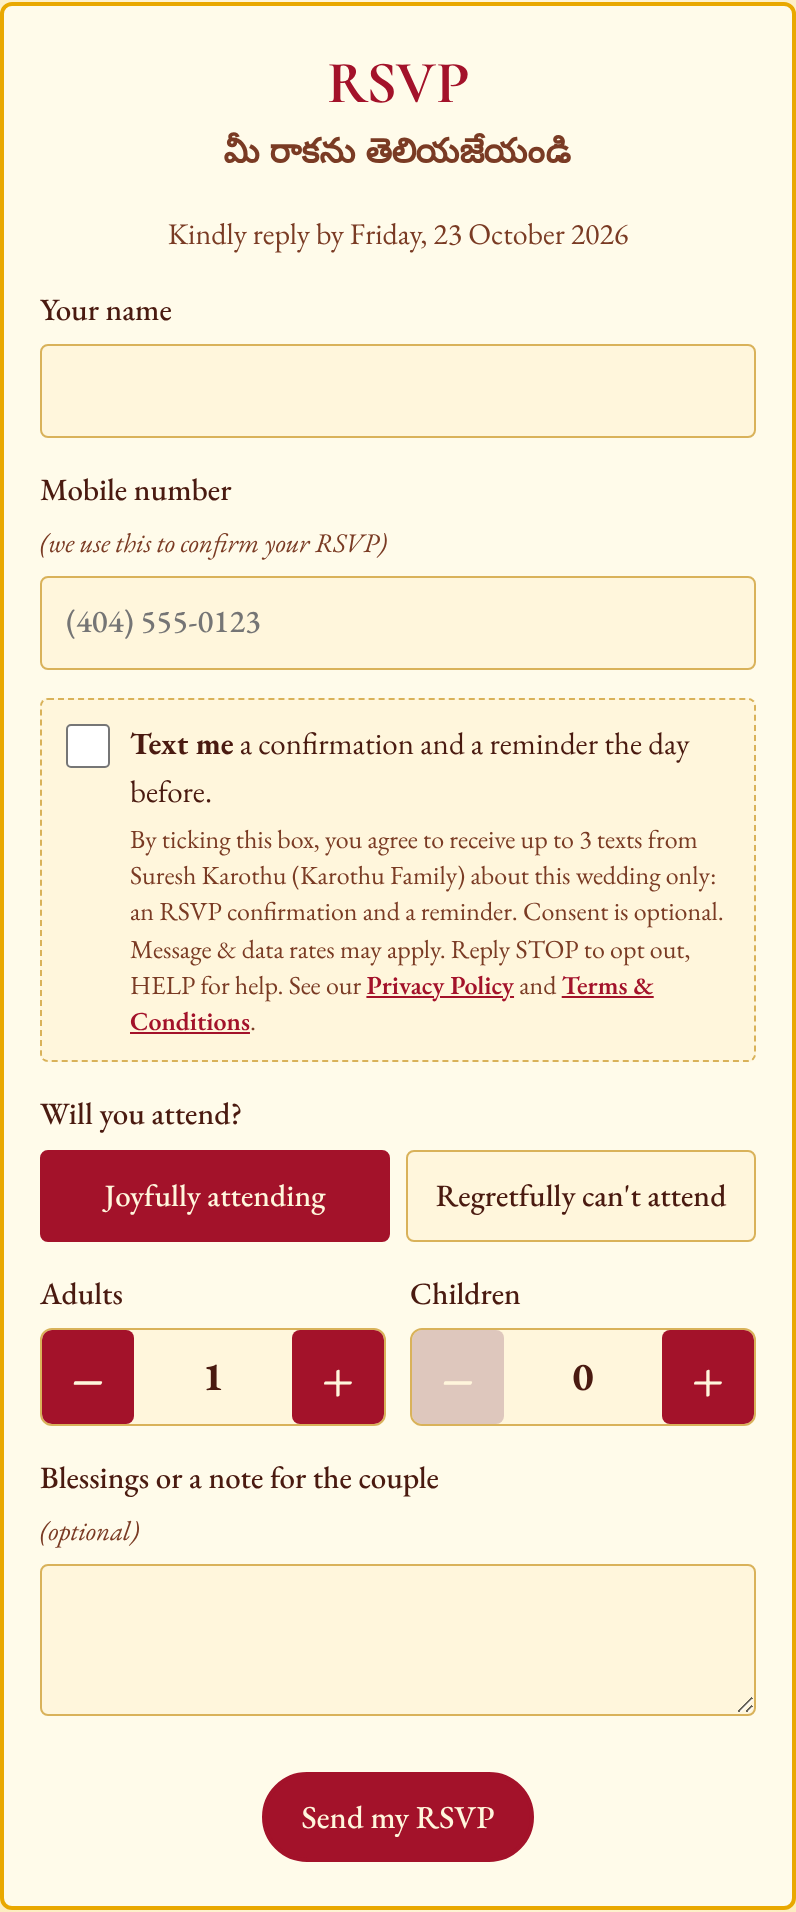
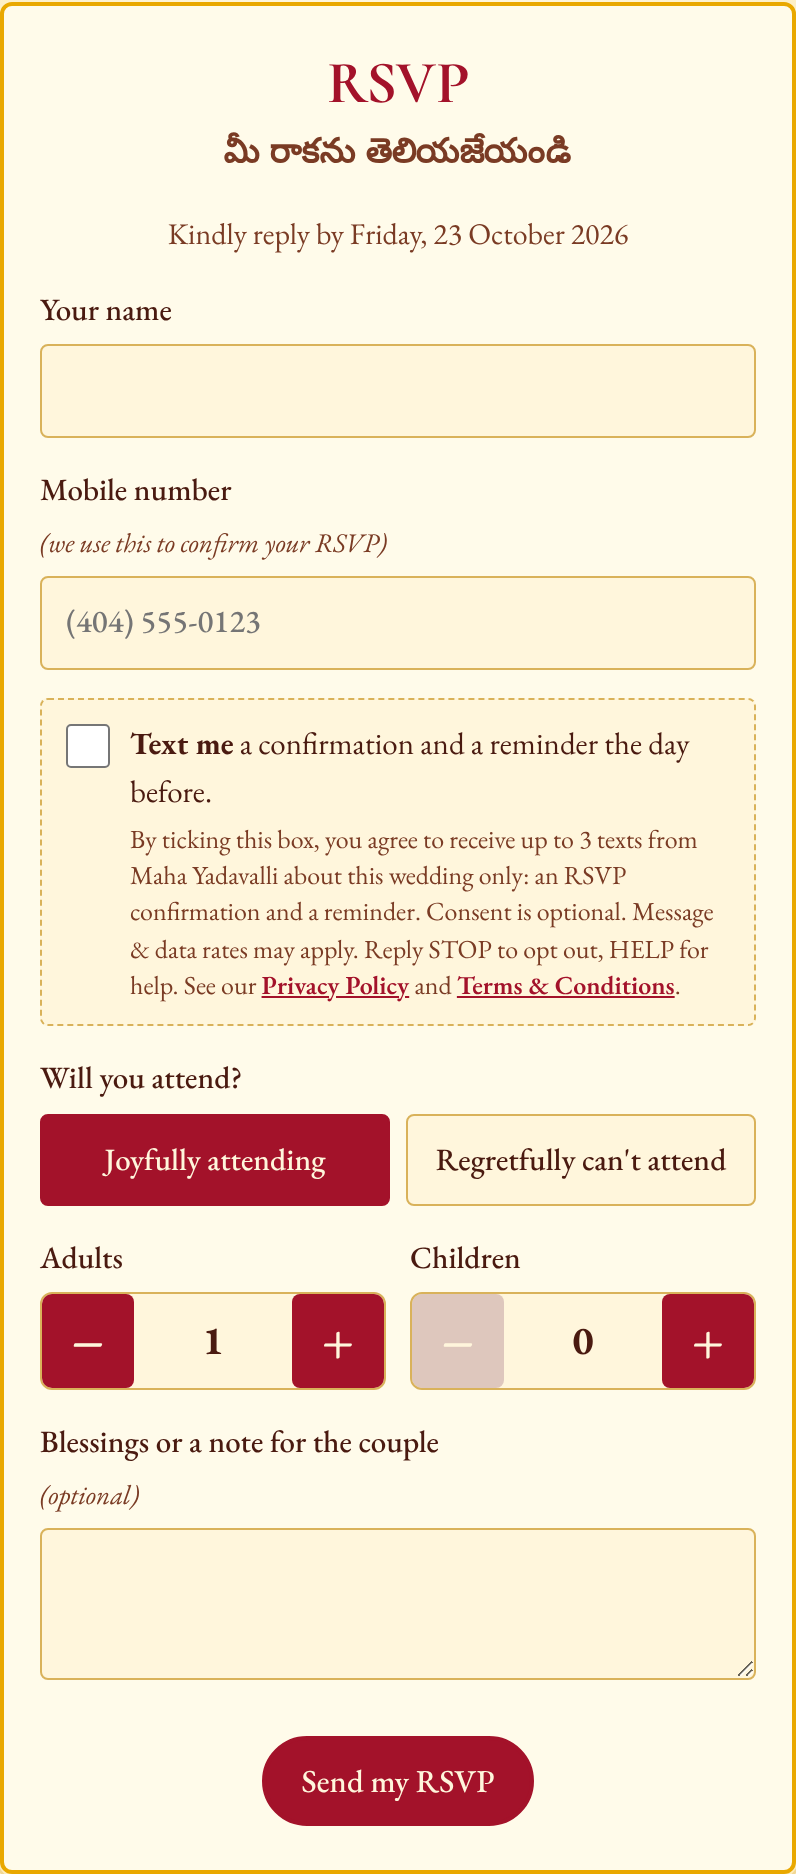
Add files via upload

diff --git a/public/terms.html b/public/terms.html
@@ -11,24 +11,24 @@ a{color:var(--k)}.back{display:inline-block;margin-top:24px}
 b.key{background:#FCEBB8;padding:0 4px}
 </style></head><body><main>
 <h1>Terms &amp; Conditions</h1>
-<p class="meta">Sai Keerthana &amp; Michael Wedding RSVP · operated by Suresh Karothu (Karothu Family) · Last updated 25 September 2026</p>
-<p>These terms apply to the wedding invitation website at <a href="https://maharanay22.github.io/sai-michael-wedding/">https://maharanay22.github.io/sai-michael-wedding/</a> and its RSVP text messages, provided by Suresh Karothu (Karothu Family).</p>
+<p class="meta">Sai Keerthana &amp; Michael Wedding RSVP · operated by Maha Yadavalli · Last updated 25 September 2026</p>
+<p>These terms apply to the wedding invitation website at <a href="https://maharanay22.github.io/sai-michael-wedding/">https://maharanay22.github.io/sai-michael-wedding/</a> and its RSVP text messages, provided by Maha Yadavalli.</p>
 <h2>Using the RSVP form</h2>
 <p>The RSVP form is for invited guests to tell the hosts whether they will attend. Please give accurate information. Sending an RSVP again with the same mobile number updates your earlier reply.</p>
 <h2>SMS Terms</h2>
 <ul>
-<li><b>Program:</b> Sai Keerthana &amp; Michael Wedding RSVP texts, sent by Suresh Karothu (Karothu Family).</li>
+<li><b>Program:</b> Sai Keerthana &amp; Michael Wedding RSVP texts, sent by Maha Yadavalli.</li>
 <li><b>What you receive:</b> one RSVP confirmation after you submit the form, and one reminder on 5 November 2026, the day before the wedding. If you change your RSVP, you may receive one updated confirmation. No more than 3 messages in total.</li>
 <li><b>How you join:</b> by ticking the unticked "Text me" box on the RSVP form. Consent is optional and is not required to RSVP.</li>
 <li><b>Message and data rates may apply.</b> Message frequency: up to 3 messages.</li>
 <li><b>To stop:</b> reply <b>STOP</b> at any time. You will receive one final message confirming you are unsubscribed.</li>
-<li><b>For help:</b> reply <b>HELP</b>, call or text (678) 431-6990, or email <span class="contact">maharanay@gmail.com</span>.</li>
+<li><b>For help:</b> reply <b>HELP</b>, call or text (409) 273-9225, or email <span class="contact">maharanay@gmail.com</span>.</li>
 <li>Carriers are not liable for delayed or undelivered messages.</li>
 <li>The program ends after 6 November 2026.</li>
 </ul>
 <h2>Privacy</h2>
 <p>How we handle your information is described in our <a href="privacy.html">Privacy Policy</a>. We do not sell or share your SMS opt-in data or personal information with third parties for marketing purposes.</p>
 <h2>Contact</h2>
-<p>Suresh Karothu (Karothu Family) · Phone/text: (678) 431-6990 · <span class="contact">maharanay@gmail.com</span></p>
+<p>Maha Yadavalli · Phone/text: (409) 273-9225 · <span class="contact">maharanay@gmail.com</span></p>
 <a class="back" href="./">← Back to the invitation</a>
 </main></body></html>

diff --git a/public/sms-consent.html b/public/sms-consent.html
@@ -19,7 +19,7 @@ b.key{background:#FCEBB8;padding:0 4px}
 img{max-width:100%;height:auto;border:1px solid var(--p);border-radius:6px}
 </style></head><body><main>
 <h1>SMS Opt-in (Text Message Consent)</h1>
-<p class="meta">Sai Keerthana &amp; Michael Wedding RSVP texts · operated by Suresh Karothu (Karothu Family)</p>
+<p class="meta">Sai Keerthana &amp; Michael Wedding RSVP texts · operated by Maha Yadavalli</p>
 
 <h2>How guests opt in</h2>
 <ol>
@@ -34,7 +34,7 @@ img{max-width:100%;height:auto;border:1px solid var(--p);border-radius:6px}
   <label>Mobile number</label><div class="in">(404) 555-0123</div>
   <div class="opt"><span class="box" aria-label="unticked checkbox"></span>
   <span><b>Text me</b> a confirmation and a reminder the day before.
-  <small>By ticking this box, you agree to receive up to 3 texts from Suresh Karothu (Karothu Family) about this wedding only: an RSVP confirmation and a reminder. Consent is optional. Message &amp; data rates may apply. Reply STOP to opt out, HELP for help. See our <a href="privacy.html">Privacy Policy</a> and <a href="terms.html">Terms &amp; Conditions</a>.</small></span></div>
+  <small>By ticking this box, you agree to receive up to 3 texts from Maha Yadavalli about this wedding only: an RSVP confirmation and a reminder. Consent is optional. Message &amp; data rates may apply. Reply STOP to opt out, HELP for help. See our <a href="privacy.html">Privacy Policy</a> and <a href="terms.html">Terms &amp; Conditions</a>.</small></span></div>
   <label>Will you attend?</label><div class="in">○ Joyfully attending &nbsp; ○ Regretfully can't attend</div>
 </div>
 
@@ -47,6 +47,6 @@ img{max-width:100%;height:auto;border:1px solid var(--p);border-radius:6px}
 <li>One event reminder on November 5, 2026.</li>
 <li>At most 3 messages per number. The program ends November 6, 2026.</li>
 </ul>
-<p>Reply <b>STOP</b> to opt out at any time, or <b>HELP</b> for help. Message &amp; data rates may apply. Opt-in data is never sold or shared with third parties for marketing. Help: call or text (678) 431-6990.</p>
+<p>Reply <b>STOP</b> to opt out at any time, or <b>HELP</b> for help. Message &amp; data rates may apply. Opt-in data is never sold or shared with third parties for marketing. Help: call or text (409) 273-9225.</p>
 <p><a href="privacy.html">Privacy Policy</a> · <a href="terms.html">Terms &amp; Conditions</a> · <a class="back" href="./">Back to the invitation</a></p>
 </main></body></html>

diff --git a/public/privacy.html b/public/privacy.html
@@ -11,8 +11,8 @@ a{color:var(--k)}.back{display:inline-block;margin-top:24px}
 b.key{background:#FCEBB8;padding:0 4px}
 </style></head><body><main>
 <h1>Privacy Policy</h1>
-<p class="meta">Sai Keerthana &amp; Michael Wedding RSVP · operated by Suresh Karothu (Karothu Family) · Last updated 25 September 2026</p>
-<p>This policy explains what information Suresh Karothu of the Karothu Family ("we") collects through the wedding invitation website at <a href="https://maharanay22.github.io/sai-michael-wedding/">https://maharanay22.github.io/sai-michael-wedding/</a> and how it is used.</p>
+<p class="meta">Sai Keerthana &amp; Michael Wedding RSVP · operated by Maha Yadavalli · Last updated 25 September 2026</p>
+<p>This policy explains what information Maha Yadavalli ("we") collects through the wedding invitation website at <a href="https://maharanay22.github.io/sai-michael-wedding/">https://maharanay22.github.io/sai-michael-wedding/</a> and how it is used.</p>
 <h2>Information we collect</h2>
 <ul>
 <li>Your name and mobile phone number.</li>
@@ -32,6 +32,6 @@ b.key{background:#FCEBB8;padding:0 4px}
 <h2>Text messages</h2>
 <p>You can stop text messages at any time by replying <b>STOP</b>. Reply <b>HELP</b> for help. See our <a href="terms.html">Terms &amp; Conditions</a>.</p>
 <h2>Contact</h2>
-<p>Suresh Karothu (Karothu Family) · Phone/text: (678) 431-6990 · <span class="contact">maharanay@gmail.com</span></p>
+<p>Maha Yadavalli · Phone/text: (409) 273-9225 · <span class="contact">maharanay@gmail.com</span></p>
 <a class="back" href="./">← Back to the invitation</a>
 </main></body></html>

diff --git a/public/index.html b/public/index.html
@@ -724,7 +724,7 @@ body::after{content:"";position:fixed;top:0;left:0;right:0;height:60vh;z-index:-
         <label class="optin" for="r-sms">
           <input type="checkbox" id="r-sms" name="smsOptIn">
           <span><b>Text me</b> a confirmation and a reminder the day before.
-          <small>By ticking this box, you agree to receive up to 3 texts from Suresh Karothu (Karothu Family) about this wedding only: an RSVP confirmation and a reminder. Consent is optional. Message &amp; data rates may apply. Reply STOP to opt out, HELP for help. See our <a href="privacy.html" target="_blank">Privacy Policy</a> and <a href="terms.html" target="_blank">Terms &amp; Conditions</a>.</small></span>
+          <small>By ticking this box, you agree to receive up to 3 texts from Maha Yadavalli about this wedding only: an RSVP confirmation and a reminder. Consent is optional. Message &amp; data rates may apply. Reply STOP to opt out, HELP for help. See our <a href="privacy.html" target="_blank">Privacy Policy</a> and <a href="terms.html" target="_blank">Terms &amp; Conditions</a>.</small></span>
         </label>
         <fieldset>
           <legend>Will you attend?</legend>
